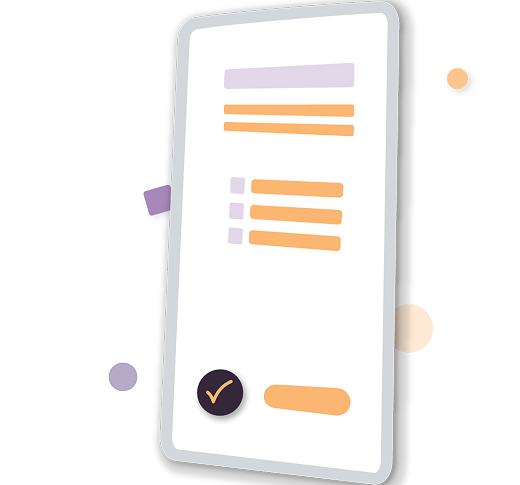
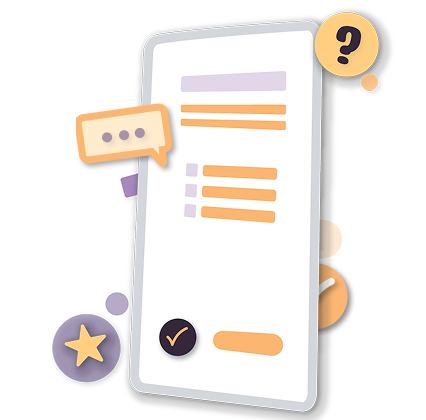
feat: update image handling in StartComponent and add cursor pointer styles in various components

diff --git a/src/app/main_page/components/all_surveys/allSurveys.component.scss b/src/app/main_page/components/all_surveys/allSurveys.component.scss
@@ -41,6 +41,7 @@
     font-size: 16px;
     line-height: 100%;
     letter-spacing: 0%;
+    cursor: pointer;
 };
 
 .pastButton {
@@ -60,6 +61,7 @@
     font-size: 16px;
     line-height: 100%;
     letter-spacing: 0%;
+    cursor: pointer;
 };
 
 .sortByCategory {
@@ -122,6 +124,7 @@
     padding-right: 20px;
     padding-bottom: 12px;
     padding-left: 20px;
+    cursor: pointer;
 };
 
 .surveyInfo {

diff --git a/src/app/main_page/components/landing_page/startComponent.component.html b/src/app/main_page/components/landing_page/startComponent.component.html
@@ -8,5 +8,5 @@
 </div>
 
 <div>
-    <img src="handy_image.png" alt="Handy Image" class="handyImage">
+    <img [src]="currentImage" (mouseenter)="currentImage = 'handy_image_2.png'" (mouseleave)="currentImage = 'handy_image.png'" alt="Handy Image" class="handyImage">
 </div>

diff --git a/src/app/main_page/components/landing_page/startComponent.component.ts b/src/app/main_page/components/landing_page/startComponent.component.ts
@@ -9,4 +9,6 @@ import {Component} from '@angular/core';
 
   
 
-export class StartComponent {}
+export class StartComponent {
+  currentImage = 'handy_image.png';
+}

diff --git a/src/app/main_page/components/your_surveys/yourSurveys.component.scss b/src/app/main_page/components/your_surveys/yourSurveys.component.scss
@@ -59,6 +59,7 @@ h3 {
     padding-bottom: 40px;
     padding-left: 32px;
     border-top-right-radius: 80px;
+    cursor: pointer;
 };
 
 .surveyCategory{
